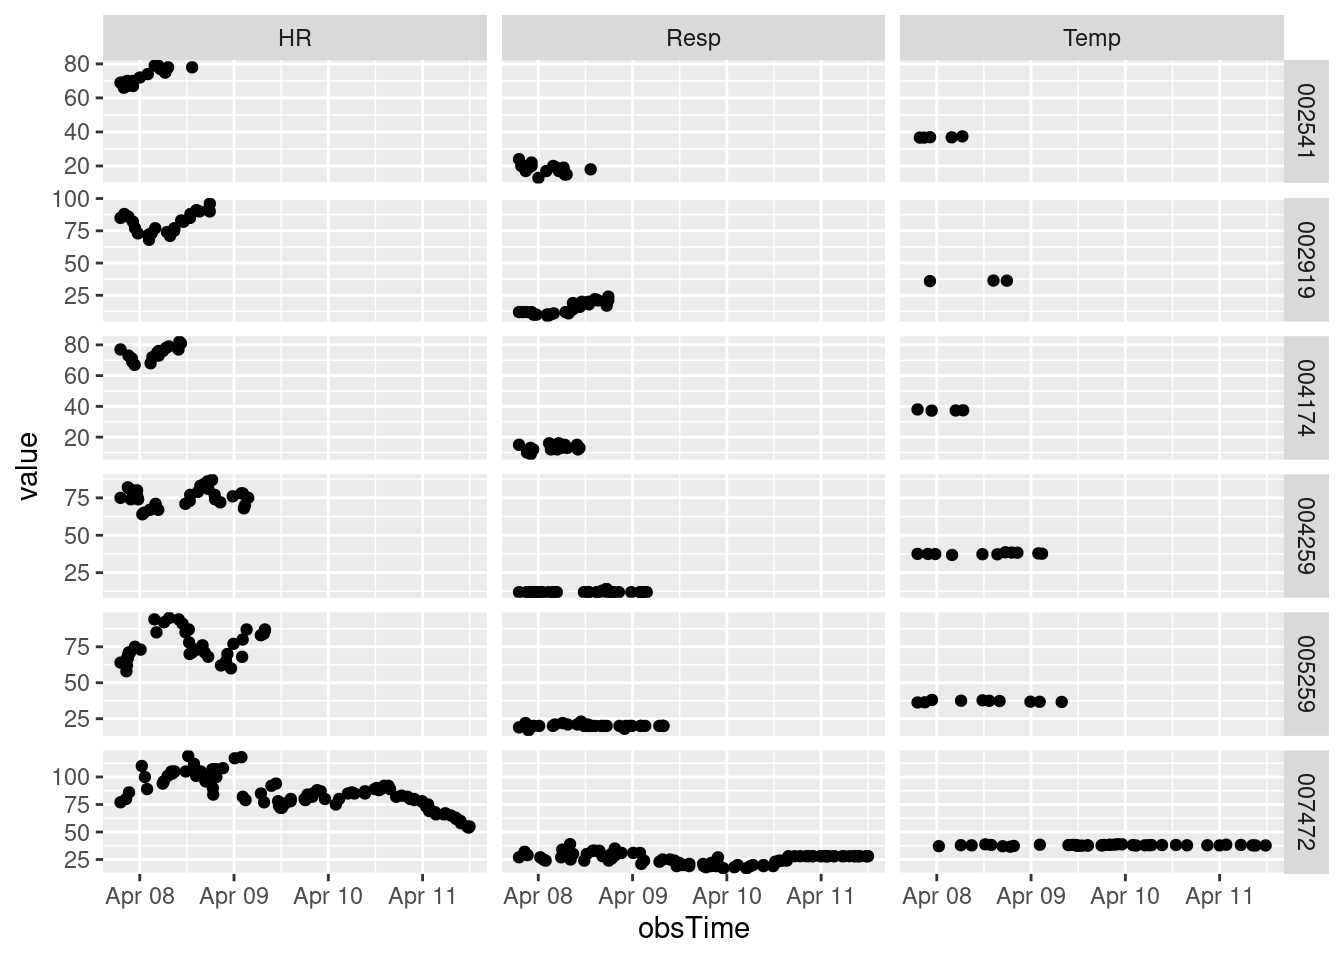
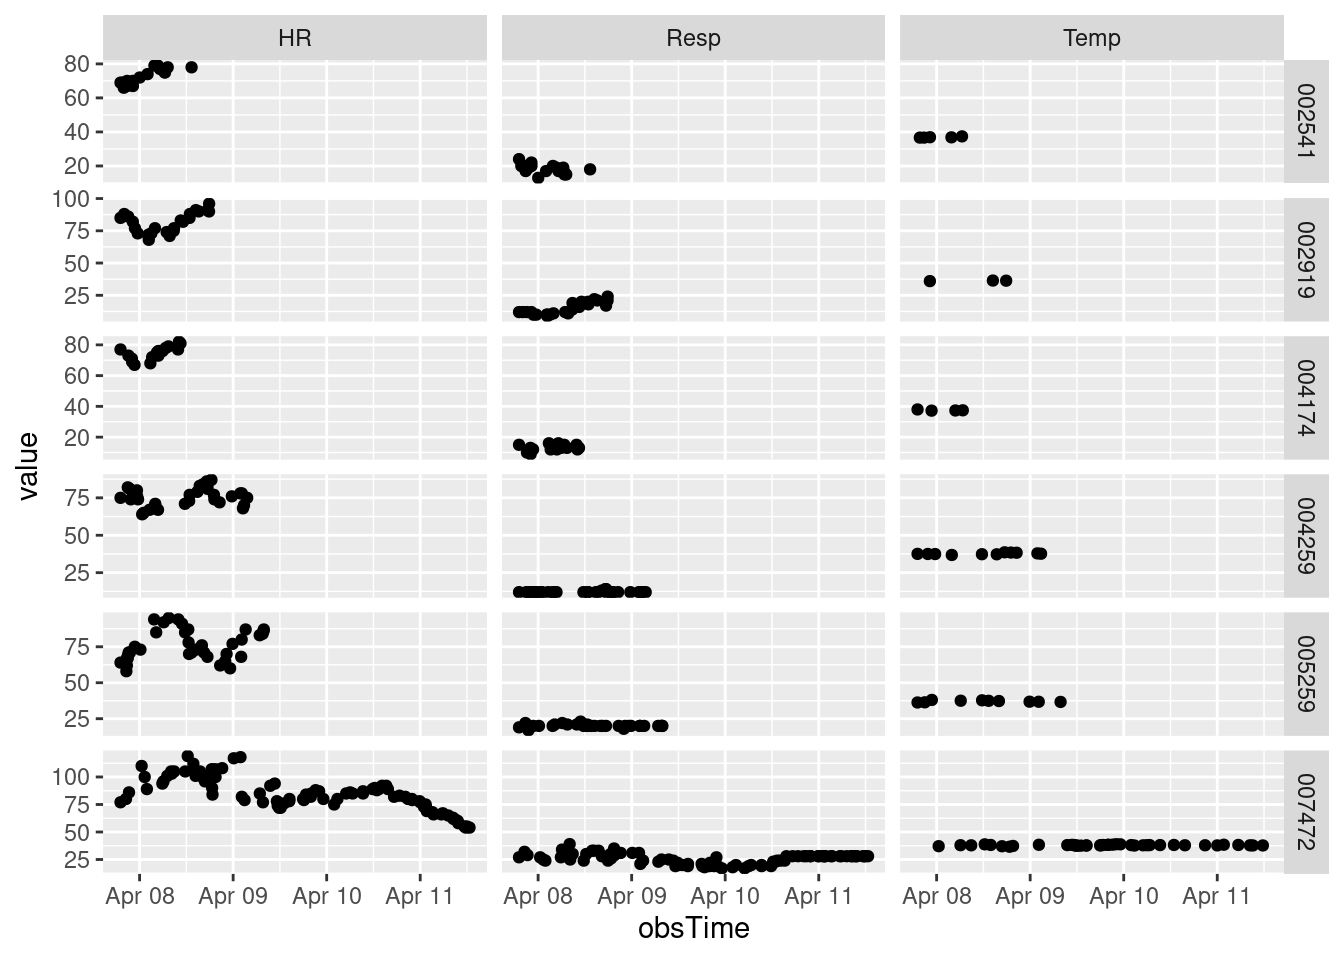
Updated data and report

diff --git a/sepsis.html b/sepsis.html
@@ -140,7 +140,7 @@ code span.wa { color: #60a0b0; font-weight: bold; font-style: italic; } /* Warni
 
 </header>
 
-<p>Last updated: 2023-04-11 12:17:37</p>
+<p>Last updated: 2023-04-11 13:14:28</p>
 <div class="cell">
 <div class="sourceCode cell-code" id="cb1"><pre class="sourceCode r code-with-copy"><code class="sourceCode r"><span id="cb1-1"><a href="#cb1-1" aria-hidden="true" tabindex="-1"></a><span class="co"># Set up </span></span>
 <span id="cb1-2"><a href="#cb1-2" aria-hidden="true" tabindex="-1"></a><span class="fu">library</span>(tidyverse)</span>
@@ -175,8 +175,8 @@ code span.wa { color: #60a0b0; font-weight: bold; font-style: italic; } /* Warni
 <span id="cb2-5"><a href="#cb2-5" aria-hidden="true" tabindex="-1"></a>current_sepsis_pts <span class="sc">%&gt;%</span> <span class="fu">datatable</span>()</span></code><button title="Copy to Clipboard" class="code-copy-button"><i class="bi"></i></button></pre></div>
 <div class="cell-output-display">
 
-<div class="datatables html-widget html-fill-item-overflow-hidden html-fill-item" id="htmlwidget-87640cc6b0edcc5ae026" style="width:100%;height:auto;"></div>
-<script type="application/json" data-for="htmlwidget-87640cc6b0edcc5ae026">{"x":{"filter":"none","vertical":false,"data":[["1","2","3","4","5","6"],["002541","002919","004174","004259","005259","007472"],[78,96,81,75,87,55],[null,36.33,null,null,null,null],[18,24,13,12,20,28]],"container":"<table class=\"display\">\n  <thead>\n    <tr>\n      <th> <\/th>\n      <th>PatientID<\/th>\n      <th>HR<\/th>\n      <th>Temp<\/th>\n      <th>Resp<\/th>\n    <\/tr>\n  <\/thead>\n<\/table>","options":{"columnDefs":[{"className":"dt-right","targets":[2,3,4]},{"orderable":false,"targets":0}],"order":[],"autoWidth":false,"orderClasses":false}},"evals":[],"jsHooks":[]}</script>
+<div class="datatables html-widget html-fill-item-overflow-hidden html-fill-item" id="htmlwidget-4dfb486ee07d6122f043" style="width:100%;height:auto;"></div>
+<script type="application/json" data-for="htmlwidget-4dfb486ee07d6122f043">{"x":{"filter":"none","vertical":false,"data":[["1","2","3","4","5","6"],["002541","002919","004174","004259","005259","007472"],[78,96,81,75,87,54],[null,36.33,null,null,null,null],[18,24,13,12,20,28]],"container":"<table class=\"display\">\n  <thead>\n    <tr>\n      <th> <\/th>\n      <th>PatientID<\/th>\n      <th>HR<\/th>\n      <th>Temp<\/th>\n      <th>Resp<\/th>\n    <\/tr>\n  <\/thead>\n<\/table>","options":{"columnDefs":[{"className":"dt-right","targets":[2,3,4]},{"orderable":false,"targets":0}],"order":[],"autoWidth":false,"orderClasses":false}},"evals":[],"jsHooks":[]}</script>
 </div>
 </div>
 </section>
@@ -216,8 +216,8 @@ code span.wa { color: #60a0b0; font-weight: bold; font-style: italic; } /* Warni
 <span id="cb4-13"><a href="#cb4-13" aria-hidden="true" tabindex="-1"></a>phys_var_diff <span class="sc">%&gt;%</span> <span class="fu">datatable</span>()</span></code><button title="Copy to Clipboard" class="code-copy-button"><i class="bi"></i></button></pre></div>
 <div class="cell-output-display">
 
-<div class="datatables html-widget html-fill-item-overflow-hidden html-fill-item" id="htmlwidget-59b91565a891bdfecf9d" style="width:100%;height:auto;"></div>
-<script type="application/json" data-for="htmlwidget-59b91565a891bdfecf9d">{"x":{"filter":"none","vertical":false,"data":[["1","2","3","4","5","6","7","8","9","10","11","12","13","14","15","16","17","18","19","20","21","22","23","24","25","26","27","28","29","30","31","32","33","34","35","36","37","38","39","40","41","42","43","44","45","46","47","48","49","50"],["000433","000606","000706","000855","001027","001361","001514","001569","001933","002135","002347","002402","002458","002541","002566","002866","002919","002997","003432","003678","003724","003890","004009","004174","004257","004259","004388","004616","004688","004696","004932","005120","005259","005596","005781","005995","006559","006840","007472","007484","007568","007621","007905","008039","008047","008418","008424","008816","009192","009339"],[null,-6,null,-24,0,-9,-11,-8,9,null,3,-2,null,0,9,null,6,null,3,0,1,6,9,-1,null,5,-7,6,2,4,1,-14,1,null,-1,null,-7,5,1,3,null,null,null,-2,0,16,0,null,null,-1],[null,null,null,null,null,null,null,null,null,null,null,null,null,null,null,null,null,null,null,null,null,null,null,null,null,null,null,null,null,null,null,null,null,null,null,null,null,null,null,null,null,null,null,null,null,null,null,null,null,null],[null,-5,null,-4,-1,-6,5,-5,2,null,-4,-1,null,3,2,null,3,null,-1,1,-5,4,null,1,null,0,7,-2,-6,-2,3,1,0,null,-1,null,-1,7,0,-3,null,null,null,2,null,-2,1,null,null,0]],"container":"<table class=\"display\">\n  <thead>\n    <tr>\n      <th> <\/th>\n      <th>PatientID<\/th>\n      <th>delta_HR<\/th>\n      <th>delta_Temp<\/th>\n      <th>delta_Resp<\/th>\n    <\/tr>\n  <\/thead>\n<\/table>","options":{"columnDefs":[{"className":"dt-right","targets":[2,3,4]},{"orderable":false,"targets":0}],"order":[],"autoWidth":false,"orderClasses":false}},"evals":[],"jsHooks":[]}</script>
+<div class="datatables html-widget html-fill-item-overflow-hidden html-fill-item" id="htmlwidget-1673eb0fc3741ffaa528" style="width:100%;height:auto;"></div>
+<script type="application/json" data-for="htmlwidget-1673eb0fc3741ffaa528">{"x":{"filter":"none","vertical":false,"data":[["1","2","3","4","5","6","7","8","9","10","11","12","13","14","15","16","17","18","19","20","21","22","23","24","25","26","27","28","29","30","31","32","33","34","35","36","37","38","39","40","41","42","43","44","45","46","47","48","49","50"],["000433","000606","000706","000855","001027","001361","001514","001569","001933","002135","002347","002402","002458","002541","002566","002866","002919","002997","003432","003678","003724","003890","004009","004174","004257","004259","004388","004616","004688","004696","004932","005120","005259","005596","005781","005995","006559","006840","007472","007484","007568","007621","007905","008039","008047","008418","008424","008816","009192","009339"],[null,-6,null,-24,0,-9,-11,-8,9,null,3,-2,null,0,9,null,6,null,3,0,1,6,9,-1,null,5,-7,6,2,4,1,-14,1,null,-1,null,-7,5,-1,3,null,null,null,-2,0,16,0,null,null,-1],[null,null,null,null,null,null,null,null,null,null,null,null,null,null,null,null,null,null,null,null,null,null,null,null,null,null,null,null,null,null,null,null,null,null,null,null,null,null,null,null,null,null,null,null,null,null,null,null,null,null],[null,-5,null,-4,-1,-6,5,-5,2,null,-4,-1,null,3,2,null,3,null,-1,1,-5,4,null,1,null,0,7,-2,-6,-2,3,1,0,null,-1,null,-1,7,0,-3,null,null,null,2,null,-2,1,null,null,0]],"container":"<table class=\"display\">\n  <thead>\n    <tr>\n      <th> <\/th>\n      <th>PatientID<\/th>\n      <th>delta_HR<\/th>\n      <th>delta_Temp<\/th>\n      <th>delta_Resp<\/th>\n    <\/tr>\n  <\/thead>\n<\/table>","options":{"columnDefs":[{"className":"dt-right","targets":[2,3,4]},{"orderable":false,"targets":0}],"order":[],"autoWidth":false,"orderClasses":false}},"evals":[],"jsHooks":[]}</script>
 </div>
 </div>
 </section>
